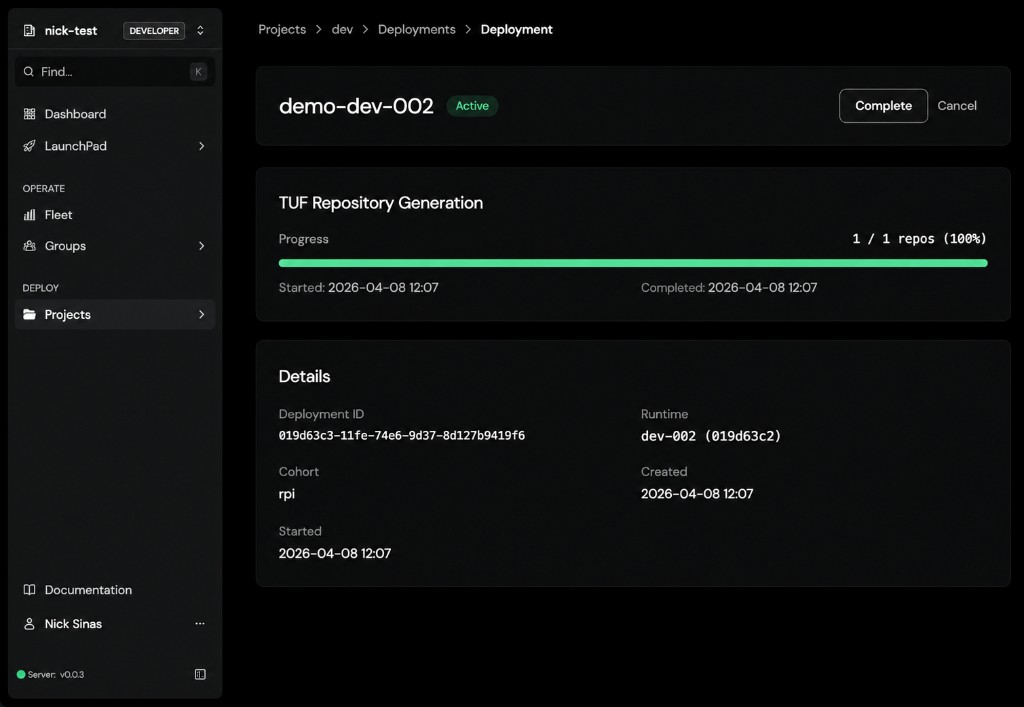
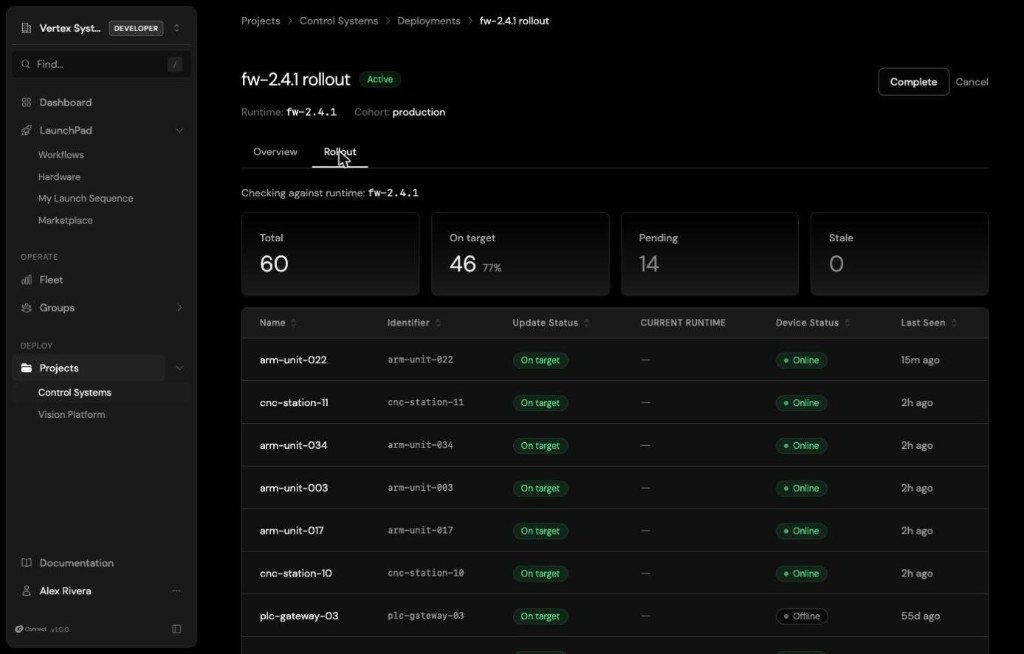
docs(connect): add runtimes, device detail, workflows, and plans screenshots
Feature guides
- deployments: introduce Runtimes and the New Deployment form with framed screenshots; sharpen the rollout screenshot's alt text to describe convergence tracking
- fleet: document the device detail view (identity, cohort, runtime, agent, shadow) with a screenshot
- getting-started: add the Launchpad Workflows gallery and Provisioning claim-token sections, each with a screenshot
- overview: add a plans/tiers intro and swap the hero shot from the dashboard to the Plans settings screenshot

Styling
- framed-shot: make images fill their frame width

Assets
- add runtimes, deployment-new, fleet-device-detail, launchpad-workflows, provisioning-claim-tokens, and settings-plans screenshots
- re-capture deployment, fleet, and launchpad screenshots
- remove the now-unused dashboard screenshot

diff --git a/src/src/css/custom.css b/src/src/css/custom.css
@@ -1337,6 +1337,7 @@ html[data-theme="dark"] .plugin-id-field-notes {
 
 .framed-shot img {
   display: block;
+  width: 100%;
   max-width: 100%;
   height: auto;
   border-radius: 3px;